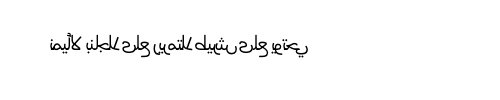
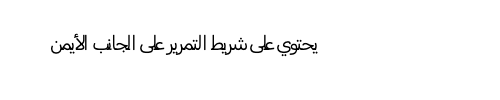
fix bug with rtl example

Changed region(s): [[0.09, 0.33, 0.66, 0.57]]

diff --git a/example-3/src/main.rs b/example-3/src/main.rs
@@ -4,65 +4,60 @@ use skia_safe::{
 };
 use std::error::Error;
 use std::fs;
-use unicode_bidi::BidiInfo;
 use std::str::FromStr;
 
 fn main() -> Result<(), Box<dyn Error>> {
-    // --- 1. Load the font and create a Skia font ---
+    // 1. Load the font.
     let font_path = "Rubik-VariableFont_wght.ttf";
-    let font_file = fs::read(font_path)?; // font_file is a Vec<u8>
+    let font_file = fs::read(font_path)?;
     let data = Data::new_copy(&font_file);
     let font_mgr = FontMgr::new();
     let typeface = font_mgr
         .new_from_data(&data, None)
         .ok_or("Failed to load the primary font")?;
+
+    // 2. Create a Skia Font.
     let font_size = 20.0;
     let mut primary_font = Font::default();
     primary_font.set_size(font_size);
     primary_font.set_typeface(typeface);
     primary_font.set_edging(skia_safe::font::Edging::SubpixelAntiAlias);
 
-    // --- 2. Prepare the RTL text with BiDi reordering ---
-    let text = "يحتوي على شريط التمرير على الجانب الأيمن"; // Arabic text
-    let bidi_info = BidiInfo::new(text, None);
-    let para = &bidi_info.paragraphs[0];
-    let display_text = bidi_info.reorder_line(para, para.range.clone());
+    // 3. The Arabic text in logical order (no manual reorder).
+    let text = "يحتوي على شريط التمرير على الجانب الأيمن";
 
-    // --- 3. Shape the text with HarfBuzz ---
+    // 4. Shape the text with HarfBuzz in RTL direction.
     let hb_face = Face::from_bytes(&font_file, 0);
     let hb_font = HbFont::new(hb_face);
+
     let hb_buffer = UnicodeBuffer::new()
-        .add_str(&display_text)
-        .set_direction(Direction::Rtl)
+        .add_str(text)
+        .set_direction(Direction::Rtl) 
         .set_language(Language::from_str("ar").unwrap())
-        .set_script(Tag::new('a', 'r', 'a', 'b')); // produces "arab"
+        .set_script(Tag::new('a', 'r', 'a', 'b'));
+
     let shaped = shape(&hb_font, hb_buffer, &[]);
     let glyph_infos = shaped.get_glyph_infos();
     let glyph_positions = shaped.get_glyph_positions();
 
-    // --- 4. Build a Skia TextBlob using the natural (LTR) positions ---
+    // 5. Build a TextBlob.
     let count = glyph_infos.len();
     let mut blob_builder = TextBlobBuilder::new();
-    // alloc_run_pos: Pass None for bounds.
     let (glyphs, points) = blob_builder.alloc_run_pos(&primary_font, count, None);
 
-    // Accumulate advances to get positions.
-    // We compute positions as if the text were LTR.
+    // HarfBuzz positions are in 26.6 fixed point, so divide by 64.
     let mut x = 0.0;
     for i in 0..count {
         glyphs[i] = glyph_infos[i].codepoint as u16;
-        // HarfBuzz returns values in 26.6 fixed‑point. Divide by 64 to convert to pixels.
         let x_offset = glyph_positions[i].x_offset as f32 / 64.0;
         let y_offset = glyph_positions[i].y_offset as f32 / 64.0;
         let x_advance = glyph_positions[i].x_advance as f32 / 64.0;
-        // Here we ignore y_advance (usually zero for horizontal text)
         points[i] = Point::new(x + x_offset, y_offset);
         x += x_advance;
     }
-    let total_width = x;
     let text_blob = blob_builder.make().ok_or("Failed to build TextBlob")?;
 
-    // --- 5. Draw the TextBlob using a canvas transform ---
+    // 6. Draw onto a surface in a straightforward way (no flipping).
     let width = 500;
     let height = 100;
     let mut surface = Surface::new_raster_n32_premul((width, height))
@@ -70,32 +65,18 @@ fn main() -> Result<(), Box<dyn Error>> {
     let canvas = surface.canvas();
     canvas.clear(Color::WHITE);
 
-    // Choose the origin where you want the right edge of the text to appear.
+    // We'll just draw the blob at some position. 
+    // The shaped glyphs themselves are already in right-to-left order.
     let origin_x = 50.0;
     let origin_y = 50.0;
-    
-    // Save canvas state.
-    canvas.save();
-    // Translate so that the right edge is at origin_x.
-    // Since our text blob's coordinates start at 0 and extend to total_width,
-    // translating by (origin_x + total_width) shifts the blob so that its right edge
-    // is at (origin_x + total_width). Then scaling by -1 in x flips it.
-    canvas.translate((origin_x + total_width, origin_y));
-    // Mirror horizontally.
-    canvas.scale((-1.0, 1.0));
-    // Draw the blob at the transformed origin.
-    canvas.draw_text_blob(&text_blob, (0.0, 0.0), &Paint::default());
-    // Restore canvas state.
-    canvas.restore();
+    // For an RTL run, "starting point" is typically the right end, so:
+    canvas.draw_text_blob(&text_blob, (origin_x, origin_y), &Paint::default());
 
-    // --- 6. Save the result ---
+    // 7. Save.
     let image = surface.image_snapshot();
-    let png_data = image
-        .encode_to_data(EncodedImageFormat::PNG)
-        .ok_or("Failed to encode image")?;
-
+    let png_data = image.encode_to_data(EncodedImageFormat::PNG).unwrap();
     fs::write("output_rtl.png", png_data.as_bytes())?;
-    println!("Image written to output_rtl.png");
 
+    println!("Image written to output_rtl.png");
     Ok(())
 }
